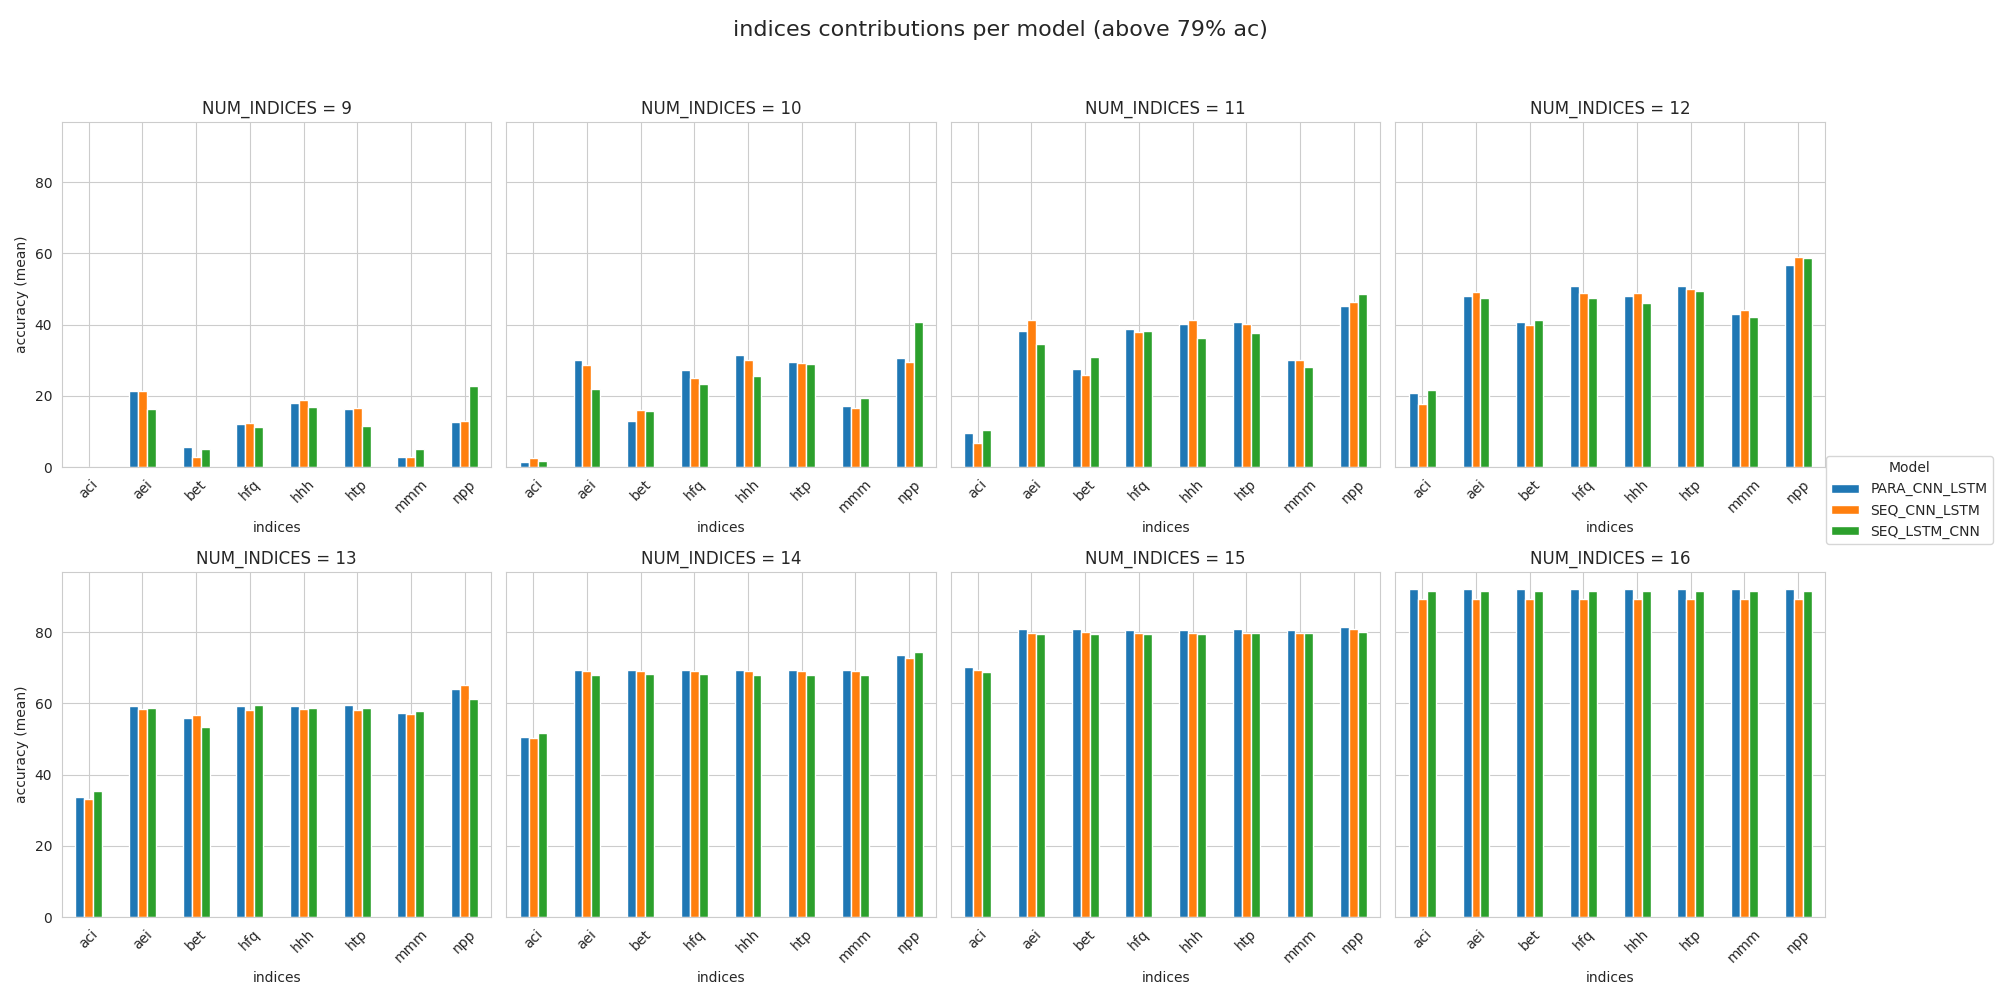
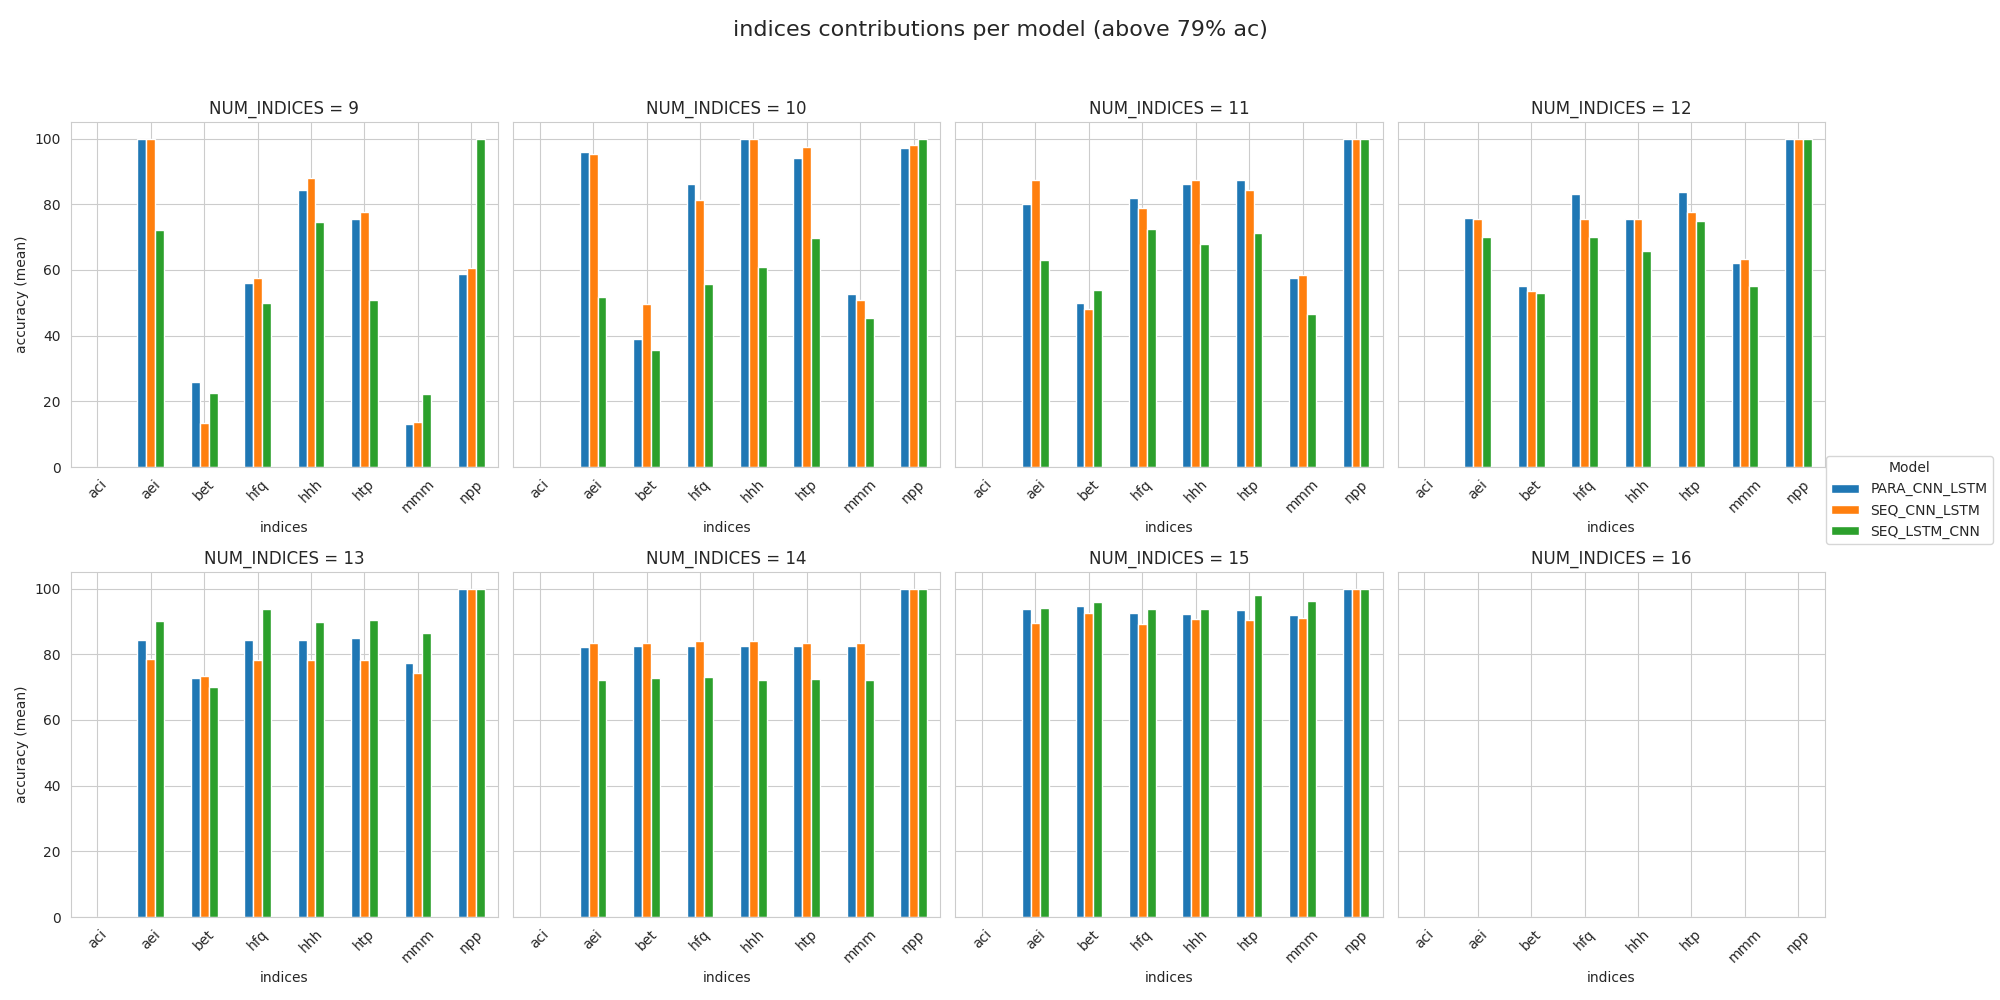
normalised indices contribution per group

diff --git a/source/evaluation.py b/source/evaluation.py
@@ -234,7 +234,12 @@ def evaluation_soundscapes(files_path: List[Tuple[str, str]] = [],
 
                 if not subset.empty:
                     plot_indices = [idx for idx in all_indices if idx != 'fix']
-                    grouped = subset.groupby('MODEL')[plot_indices].mean().T
+                    normalized = subset[plot_indices].div(subset['NUM_INDICES'], axis=0)
+                    grouped = normalized.groupby(subset['MODEL']).sum().T
+                    # grouped = normalized.groupby(subset['MODEL']).mean().T
+                    # grouped = subset.groupby('MODEL')[plot_indices].mean().T
+                    # Step 3: Normalize each value in grouped to 0–100 range
+                    grouped = grouped.apply(lambda x: 100 * (x - x.min()) / (x.max() - x.min()) if x.max() != x.min() else x * 0, axis=0)
                     plot = grouped.plot(kind='bar', ax=ax, legend=False)
 
                     if legend_handles is None:
